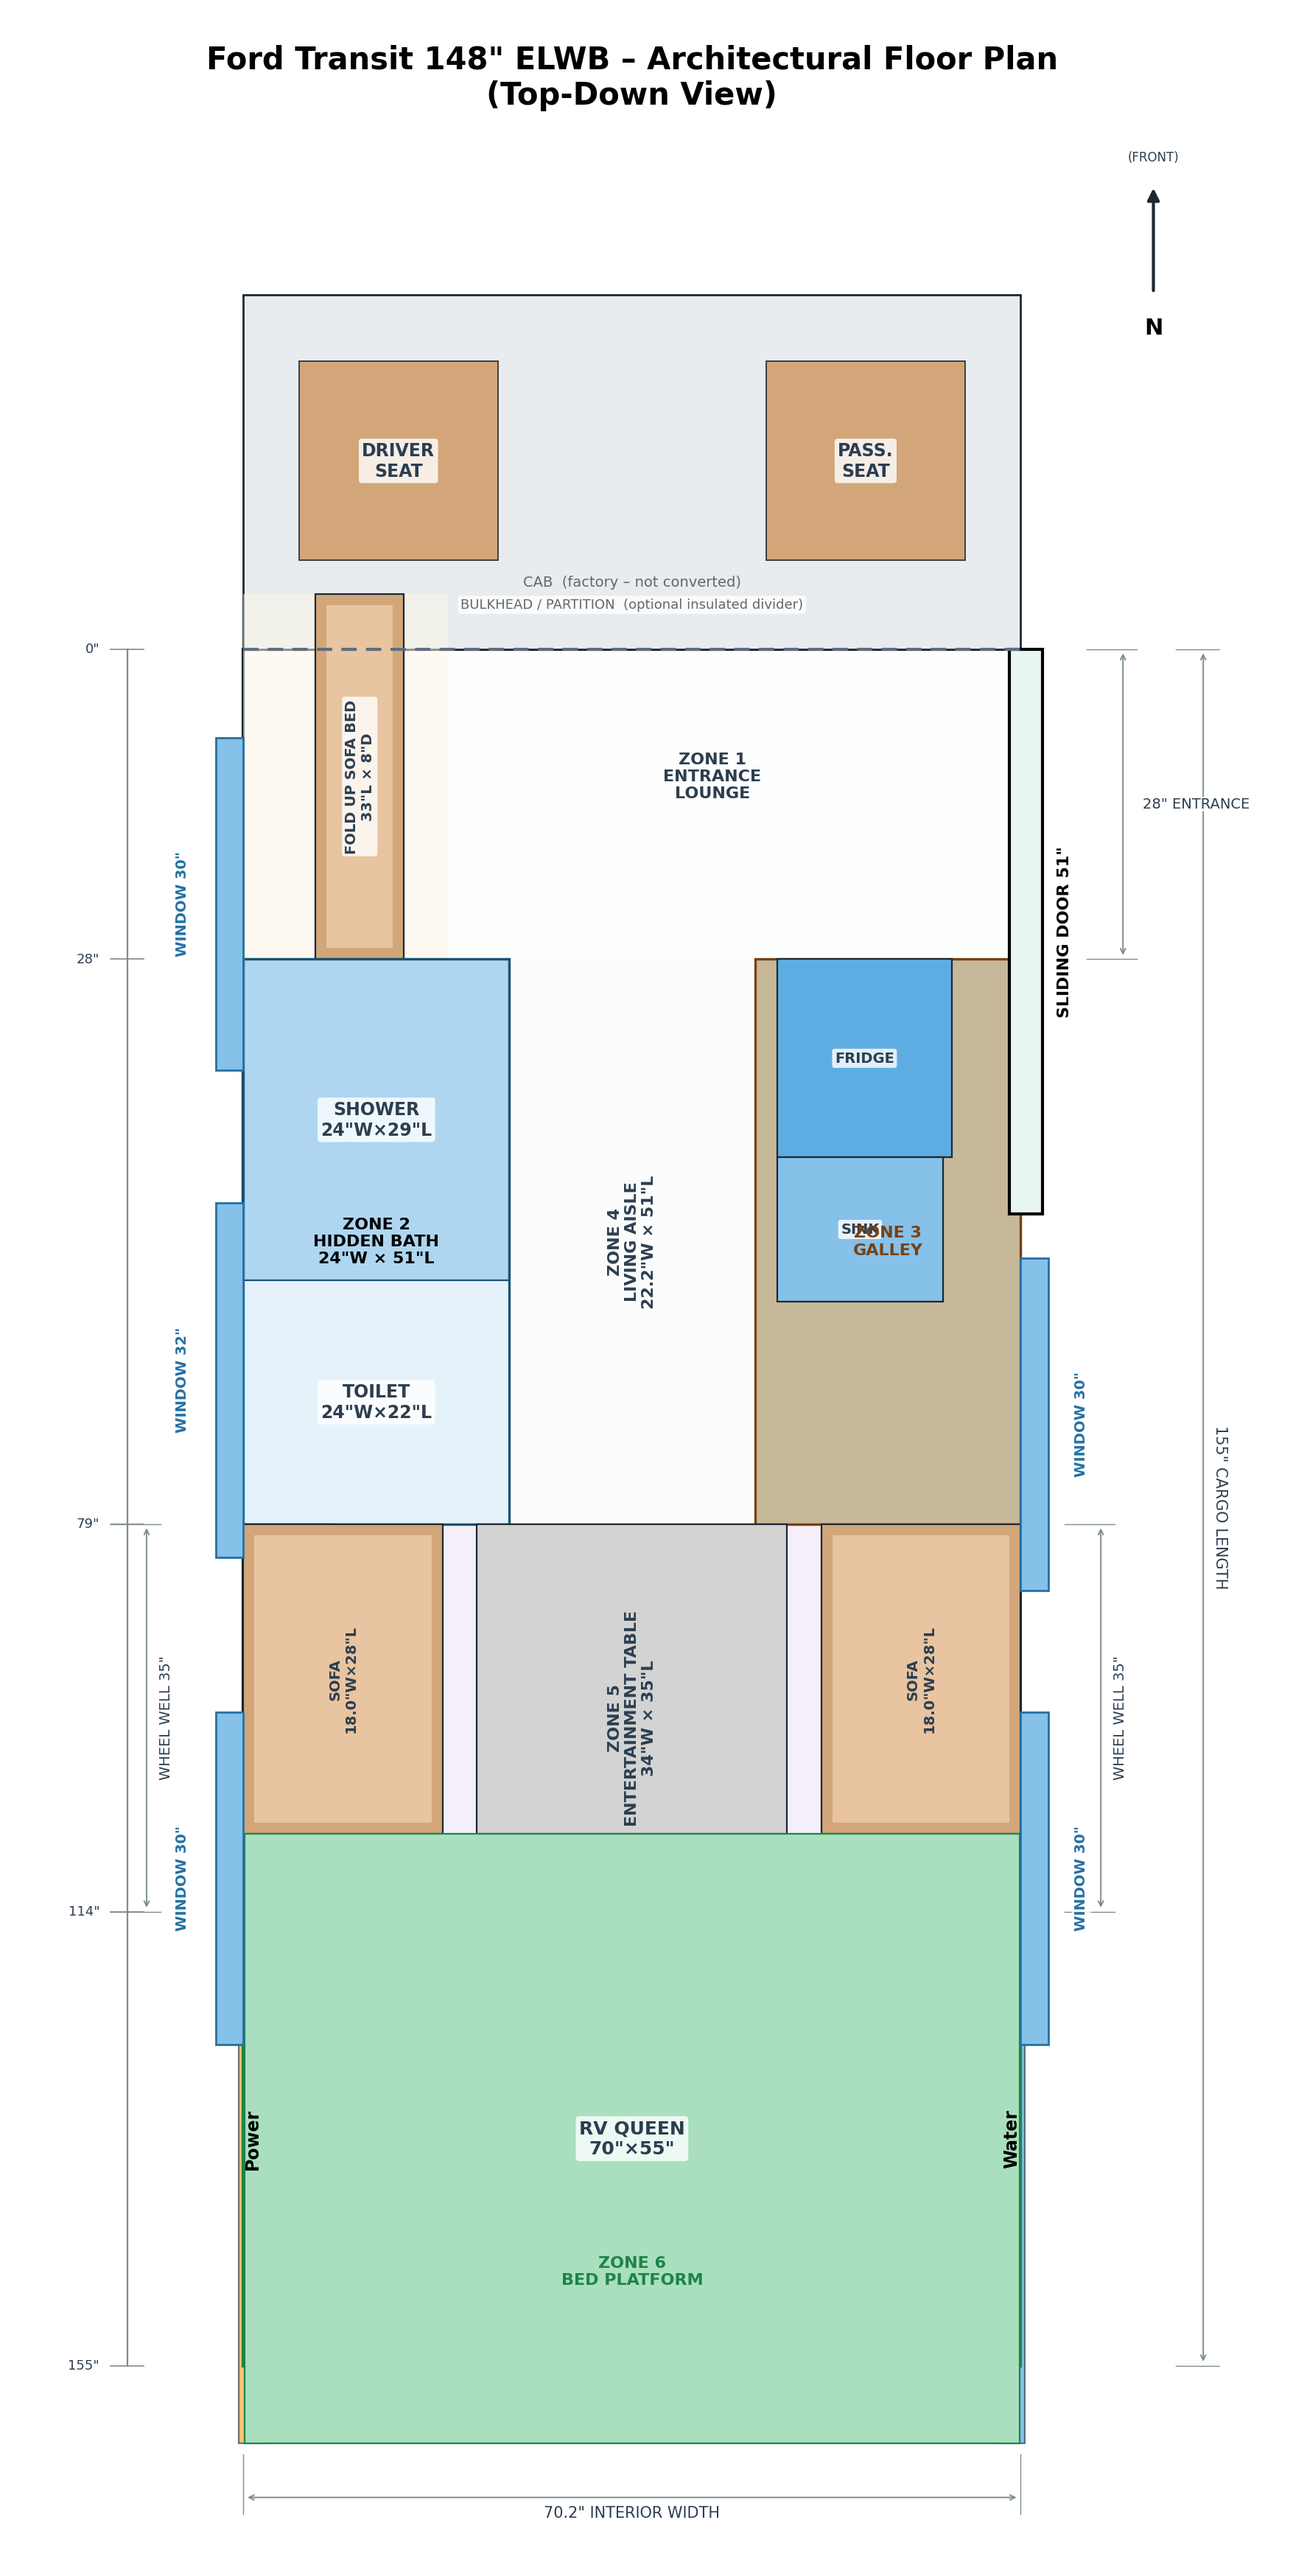
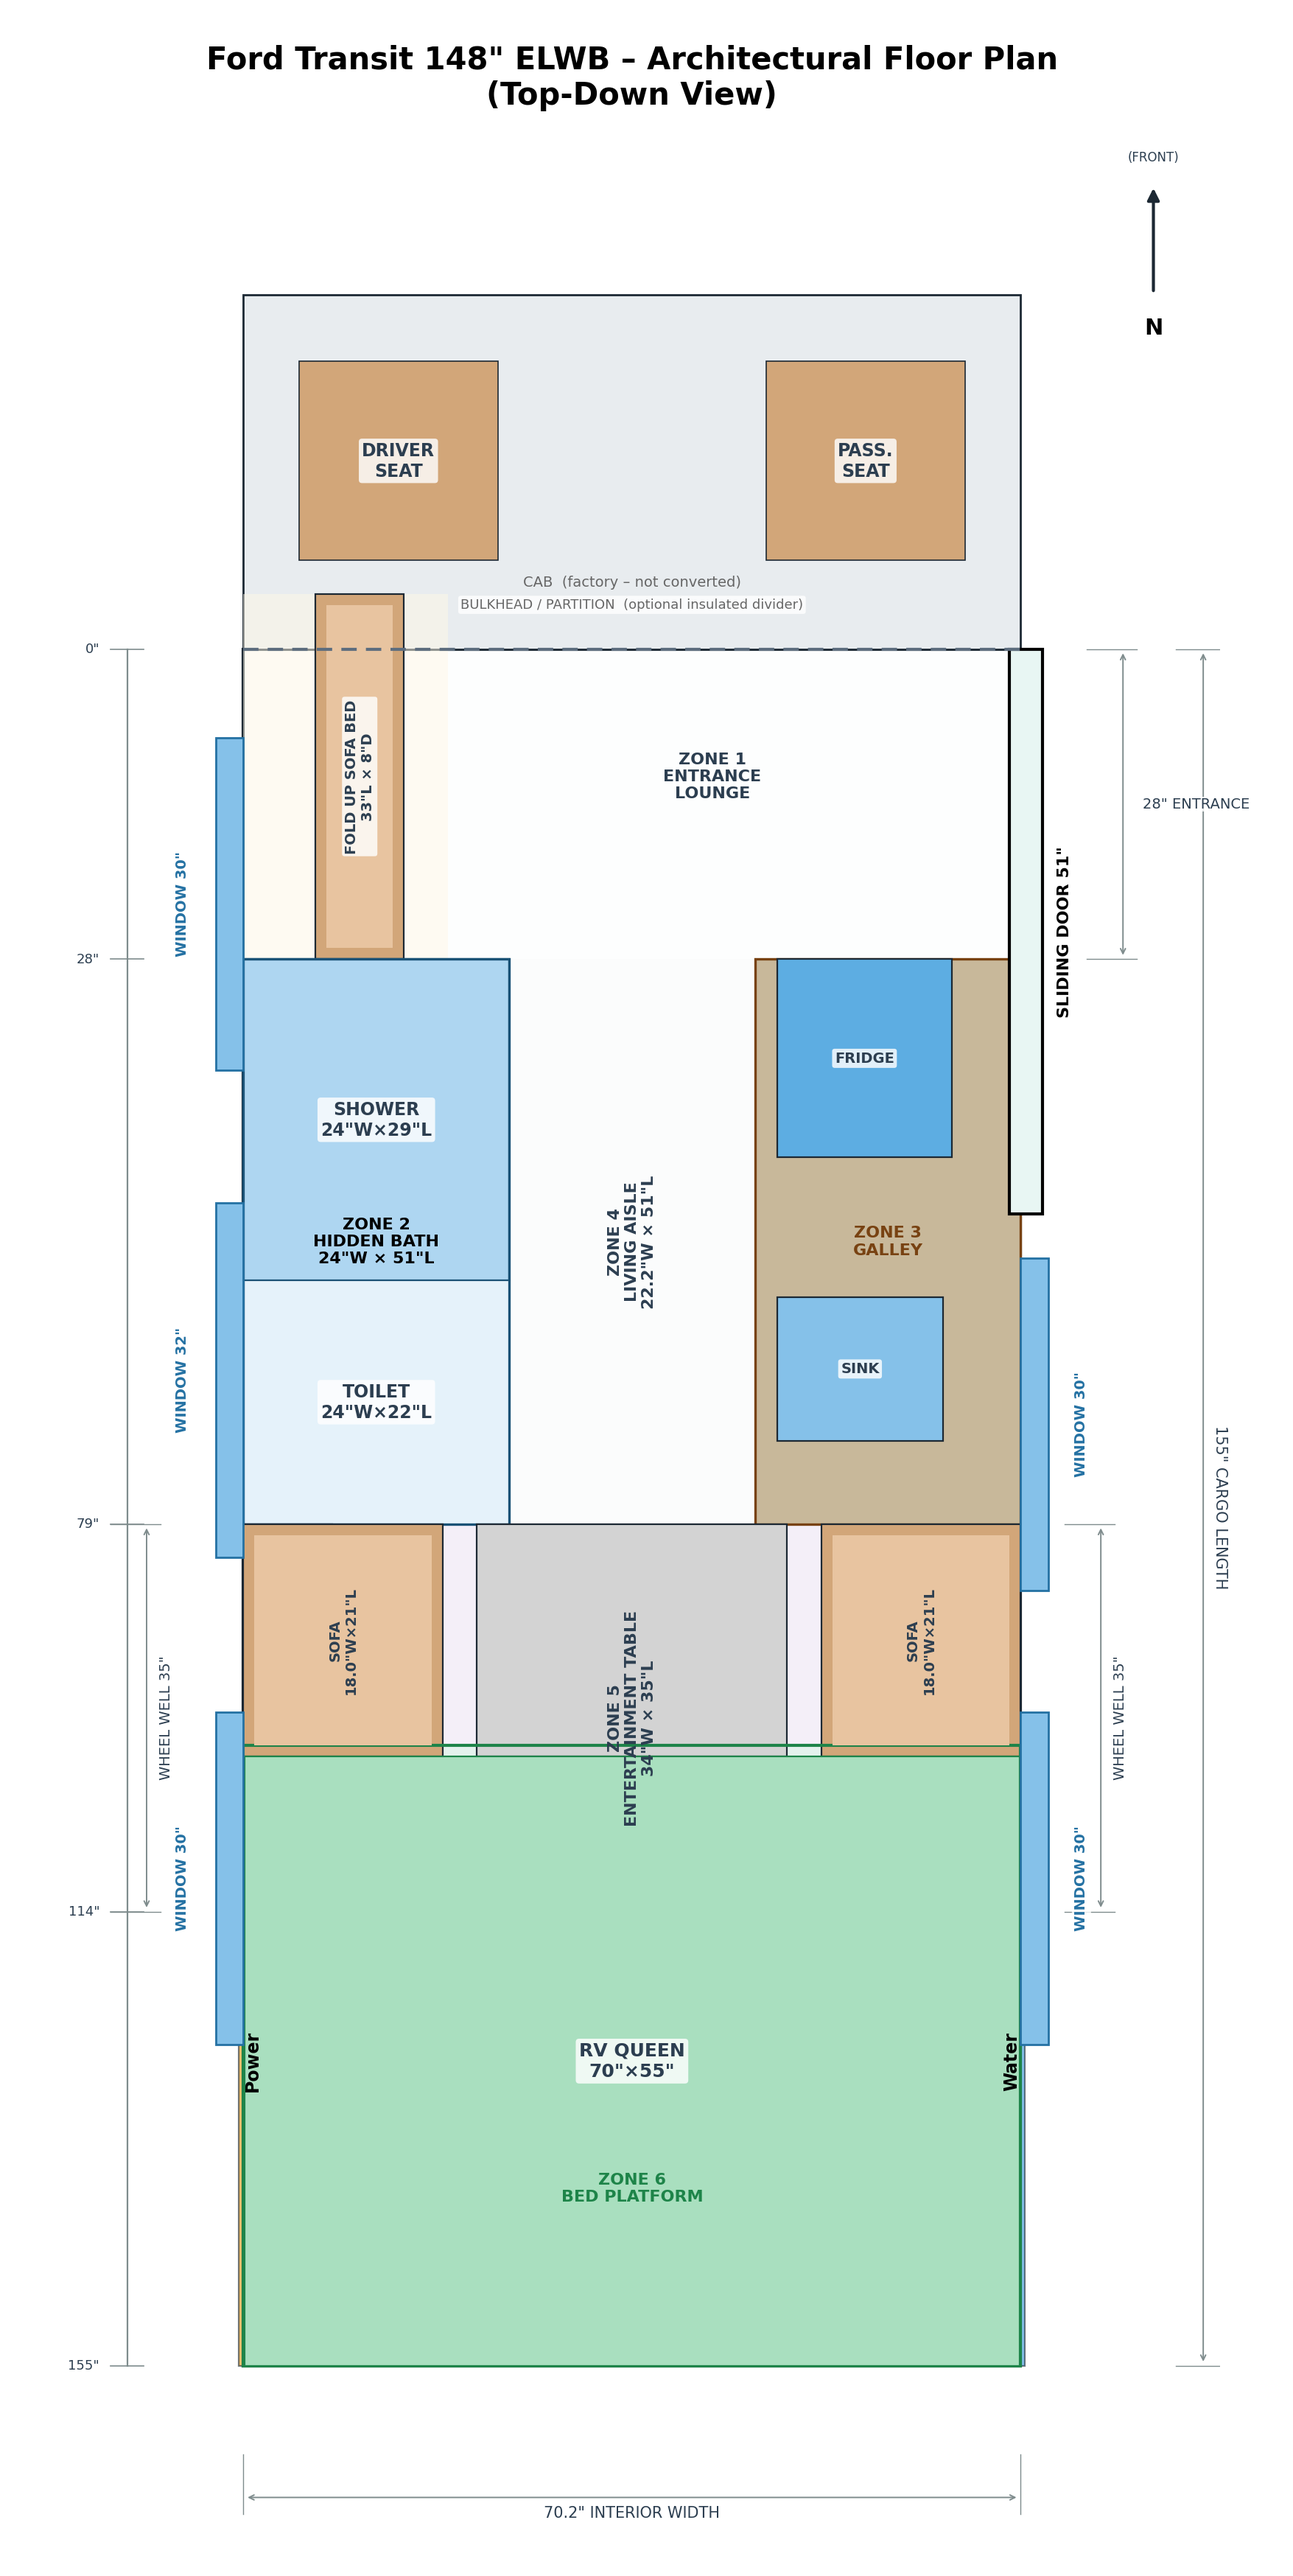
Align 70\"×55\" mattress to end at rear door and reposition sink
Fixed bed positioning to ensure mattress fits within van constraints:

**Bed Alignment:**
- Mattress now ends exactly at rear door (Y=155\")
- Mattress starts at Y=100\" (155 - 55 = 100)
- Bed platform: Y=99\" to Y=155\" (56\" depth)
- Platform extends 1\" before mattress for frame/bedding

**Recalculated Dimensions:**
- Sofa length: MAT_Y - WW_Y0 = 100 - 79 = 21\"
- Table depth: MAT_Y - Z6[0] = 100 - 79 = 21\"
- All components now fit within van's 155\" cargo length

**Sink Repositioning:**
- Moved sink to below center of Zone 3 Galley
- Position: Y≈58.5-71.5\" (below center at 53.5\")
- Better workflow and spacing in galley area

This resolves the issue where the mattress was extending beyond the van's rear door at Y=162\".

🤖 Generated with [Claude Code](https://claude.com/claude-code)

diff --git a/01-Ford-Transit-2026/05-scripts/generate_floor_plan_arch.py b/01-Ford-Transit-2026/05-scripts/generate_floor_plan_arch.py
@@ -85,18 +85,21 @@ GA_L   = Z34[1] - Z34[0]        # 51″ total length (28-79)
 FR_W, FR_D, FR_H = 15.8, 17.9, 22.0   # SMETA 1.2 cu ft compact fridge
 FR_X, FR_Y = GA_X0 + 2, GA_Y0   # fridge inside counter, 2" from edge (X=48.2, Y=28-45.9)
 SK_W, SK_D = 15.0, 13.0         # sink with cutting board cover
-SK_X, SK_Y = GA_X0 + 2, GA_Y0 + FR_D  # sink after fridge (Y≈45.9-58.9)
+# Position sink below center of galley zone (Z34 is 28-79, center is 53.5")
+SK_X, SK_Y = GA_X0 + 2, GA_Y0 + (GA_L / 2) + 5  # sink below galley center (Y≈58.5-71.5)
 CT_H = 36.0                     # counter height (fridge is 22"H and fits underneath)
 
 # ── Zone 2: Bed platform - MAXIMIZED depth, pushed to rear ──────────────
-BED_Y0 = Z2[0]                 # Y=114" (right after wheel wells)
-BED_Y1 = Z2[1]                 # Y=155" (rear door)
-BED_D  = BED_Y1 - BED_Y0       # 41″ (155 - 114)
-BED_H  = 28.0                  # optimized for window view, garage access, bed entry
 MAT_W  = 70.0                  # RV-Queen east-west (70" California King width)
-MAT_D  = 55.0                  # north-south (55" depth, extends beyond 41" platform)
+MAT_D  = 55.0                  # north-south (55" depth)
+# Align mattress to end at rear door (Y=155")
+MAT_Y  = 155.0 - MAT_D         # Mattress starts at Y=100" to end at Y=155"
 MAT_X  = (CW - MAT_W) / 2
-MAT_Y  = BED_Y0 + (BED_D - MAT_D) / 2
+# Bed platform dimensions (extends slightly beyond mattress)
+BED_Y0 = MAT_Y - 1             # Platform starts 1" before mattress (Y=99")
+BED_Y1 = Z2[1]                 # Platform ends at rear door (Y=155")
+BED_D  = BED_Y1 - BED_Y0       # 56" platform depth
+BED_H  = 28.0                  # optimized for window view, garage access, bed entry
 
 # EcoFlow batteries + water tank (under bed, shown in plan)
 WT_W, WT_D = 28.0, 22.0        # water tank (port side)
